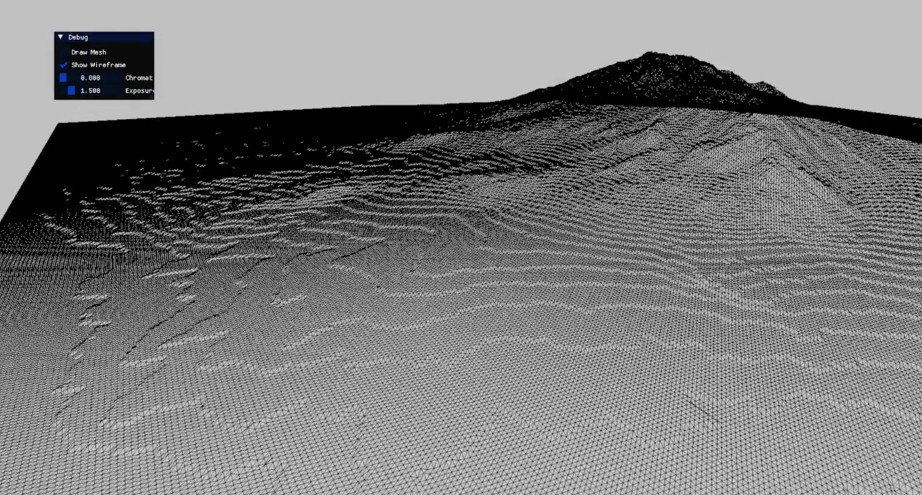
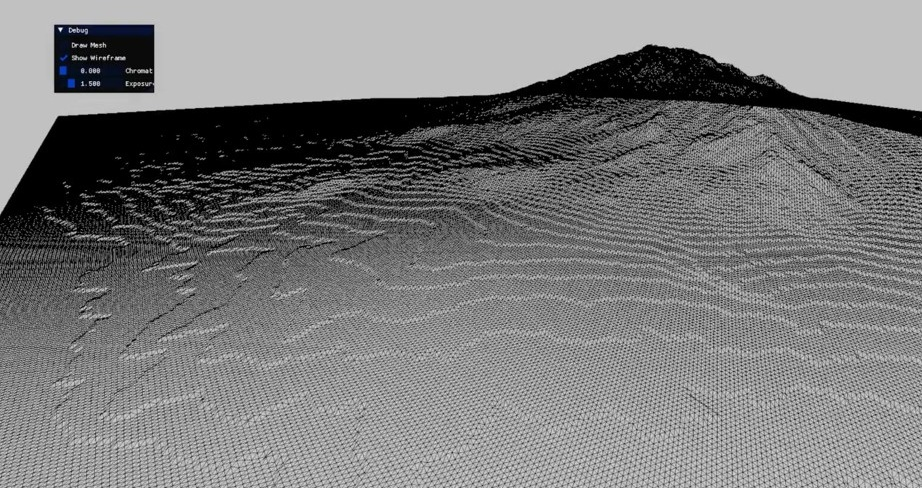
refactor: update images

diff --git a/README.md b/README.md
@@ -23,7 +23,7 @@ A terrain rendering demo built with **LVK** that generates a 3D terrain mesh fro
 </p>
 
 <p align="center">
-  <img src="docs/wireframe_and_mesh.jpg" width="60%" />
+  <img src="docs/wireframe_and_mesh.jpg" width="48%" />
 </p>
 
 ## Rendering